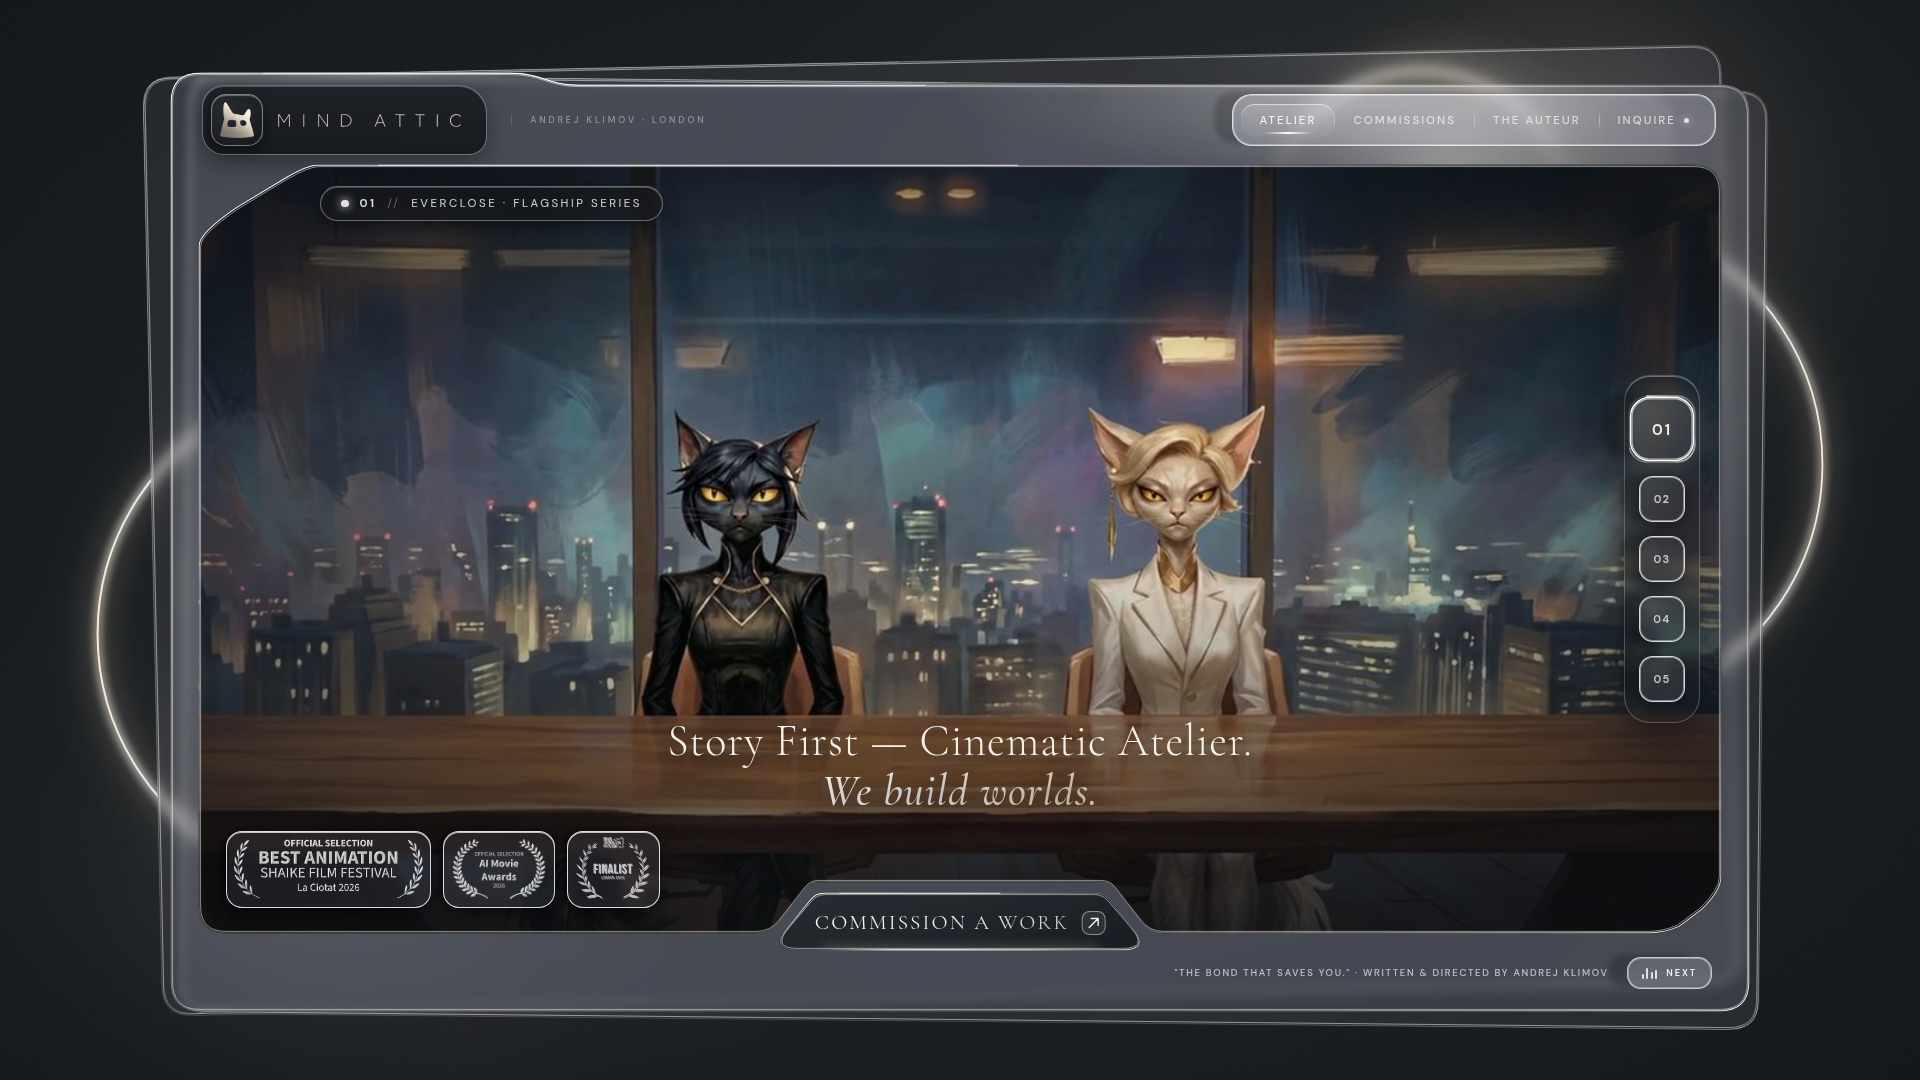
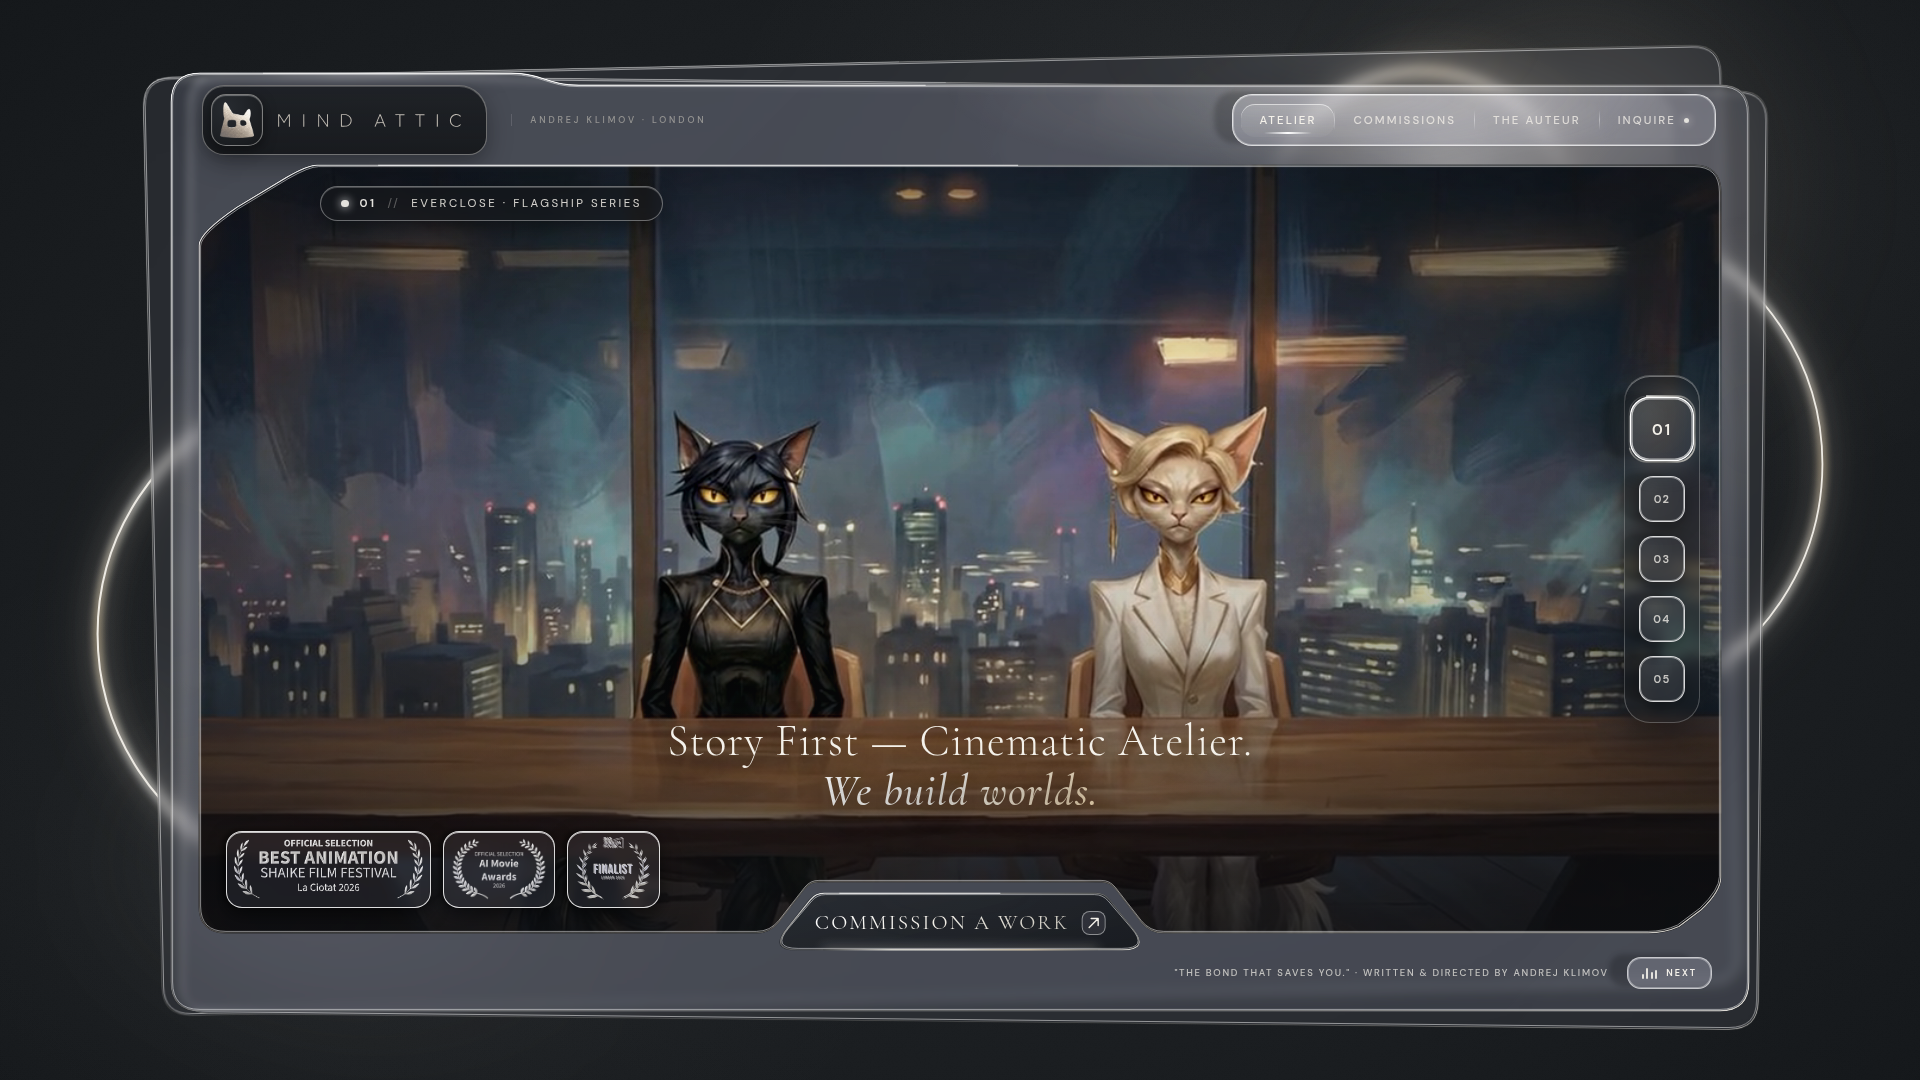
Enlarge the mobile commission button and reel controls.
Scale both for a thumb, and let the viewport notch grow with the larger trapezoid so the channel stays even.

diff --git a/assets/css/style.css b/assets/css/style.css
@@ -1220,7 +1220,7 @@ html, body {
     z-index: 15;
     left: 50%;
     right: auto;
-    bottom: 96px;
+    bottom: 122px;
     transform: translateX(-50%);
     width: min(88%, 420px);
     text-align: center;
@@ -1270,25 +1270,25 @@ html, body {
     right: auto;
     top: auto;
     left: 50%;
-    bottom: 42px;
+    bottom: 52px;
     transform: translateX(-50%);
     flex-direction: row;
-    gap: 7px;
-    padding: 5px 8px;
-    border-radius: 14px;
+    gap: clamp(7px, 1.8vw, 10px);
+    padding: 6px 10px;
+    border-radius: 16px;
     max-width: none;
   }
 
   .switcher-buttons {
     flex-direction: row;
-    gap: 7px;
+    gap: clamp(7px, 1.8vw, 10px);
     padding: 0;
   }
 
   .frosted-reel-btn {
-    width: 28px;
-    height: 28px;
-    border-radius: 10px;
+    width: clamp(36px, 8.5vw, 42px);
+    height: clamp(36px, 8.5vw, 42px);
+    border-radius: 11px;
   }
 
   .frosted-reel-btn.is-active {
@@ -1297,13 +1297,13 @@ html, body {
   }
 
   .frb-num {
-    font-size: 9.5px;
+    font-size: clamp(11px, 2.6vw, 13px);
   }
 
   .stage-bottom-dock {
     display: block;
-    min-height: 10px;
-    padding: 2px 2px 0;
+    min-height: 22px;
+    padding: 6px 14px 8px;
     text-align: center;
   }
 
@@ -1315,30 +1315,32 @@ html, body {
   }
 
   .cta-command-dock-wrap {
-    margin-top: -32px;
+    margin-top: 0;
+    transform: translate(-50%, -28px);
   }
 
   .cta-command-button {
     min-width: 0;
     width: max-content;
-    max-width: 72vw;
-    padding: 9px 22px 10px;
+    max-width: min(78vw, 340px);
+    padding: clamp(11px, 2.7vw, 14px) clamp(24px, 5.8vw, 34px) clamp(11px, 2.7vw, 14px) clamp(28px, 6.6vw, 38px);
+    gap: clamp(9px, 2.2vw, 13px);
   }
 
   .cta-title {
-    font-size: 13.5px;
-    letter-spacing: 0.09em;
+    font-size: clamp(12px, 3vw, 14.5px);
+    letter-spacing: 0.17em;
     white-space: nowrap;
   }
 
   .cta-arrow-badge {
-    width: 19px;
-    height: 19px;
+    width: clamp(21px, 5vw, 24px);
+    height: clamp(21px, 5vw, 24px);
     border-radius: 6px;
   }
 
   .cta-main-row {
-    gap: 8px;
+    gap: clamp(9px, 2.2vw, 13px);
   }
 
   .dock-wing--right {
@@ -1346,9 +1348,9 @@ html, body {
   }
 }
 
-/* The centered notch reaches the left ledge only on the narrowest phones. */
-@media (max-width: 440px) {
+/* The wider mobile notch reaches the laurel stack through about 680px. */
+@media (max-width: 680px) {
   .viewport-laurels {
-    bottom: 32px;
+    bottom: 42px;
   }
 }

diff --git a/assets/js/app.js b/assets/js/app.js
@@ -203,8 +203,8 @@
    */
   function ctaMetrics(w, h, inset) {
     const isMobile = layoutIsMobile();
-    const taper = isMobile ? Math.round(w * 0.095) : Math.round(w * 0.12);
-    const rTop = isMobile ? 12 : 18;
+    const taper = isMobile ? Math.round(Math.min(w * 0.12, Math.max(18, h * 0.42))) : Math.round(w * 0.12);
+    const rTop = isMobile ? 14 : 18;
     const rBot = isMobile ? 12 : 18;
     const x0 = inset;
     const y0 = inset;
@@ -278,7 +278,7 @@
       ceilingHalf,
       slope: shape.slope,
       shoulder: shape.tanTop,
-      mouthRadius: isMobile ? 8 : 14,
+      mouthRadius: isMobile ? 10 : 14,
       center: b.left - v.left + b.width / 2,
     };
   }
@@ -321,8 +321,9 @@
     // Keep the bottom-right chamfer outside the notch mouth. On a narrow
     // phone the tapered button needs the full mouth, so the chamfer yields
     // instead of pinching the ceiling narrower than the button.
-    const sideRoom = cx - (x0 + rad + mouthR + 8);
-    const rightRoom = x1 - rad * 0.6 - mouthHalf - mouthR - 8 - cx;
+    const sidePad = isMobile ? 4 : 8;
+    const sideRoom = cx - (x0 + rad + mouthR + sidePad);
+    const rightRoom = x1 - rad * 0.6 - mouthHalf - mouthR - sidePad - cx;
     if (rightRoom < brCutX) brCutX = Math.max(12, rightRoom);
     if (brCutX < 28 && isMobile) brCutY = Math.max(10, Math.round(brCutY * (brCutX / 28)));
     if (mouthHalf + mouthR > sideRoom && sideRoom > 48) {
